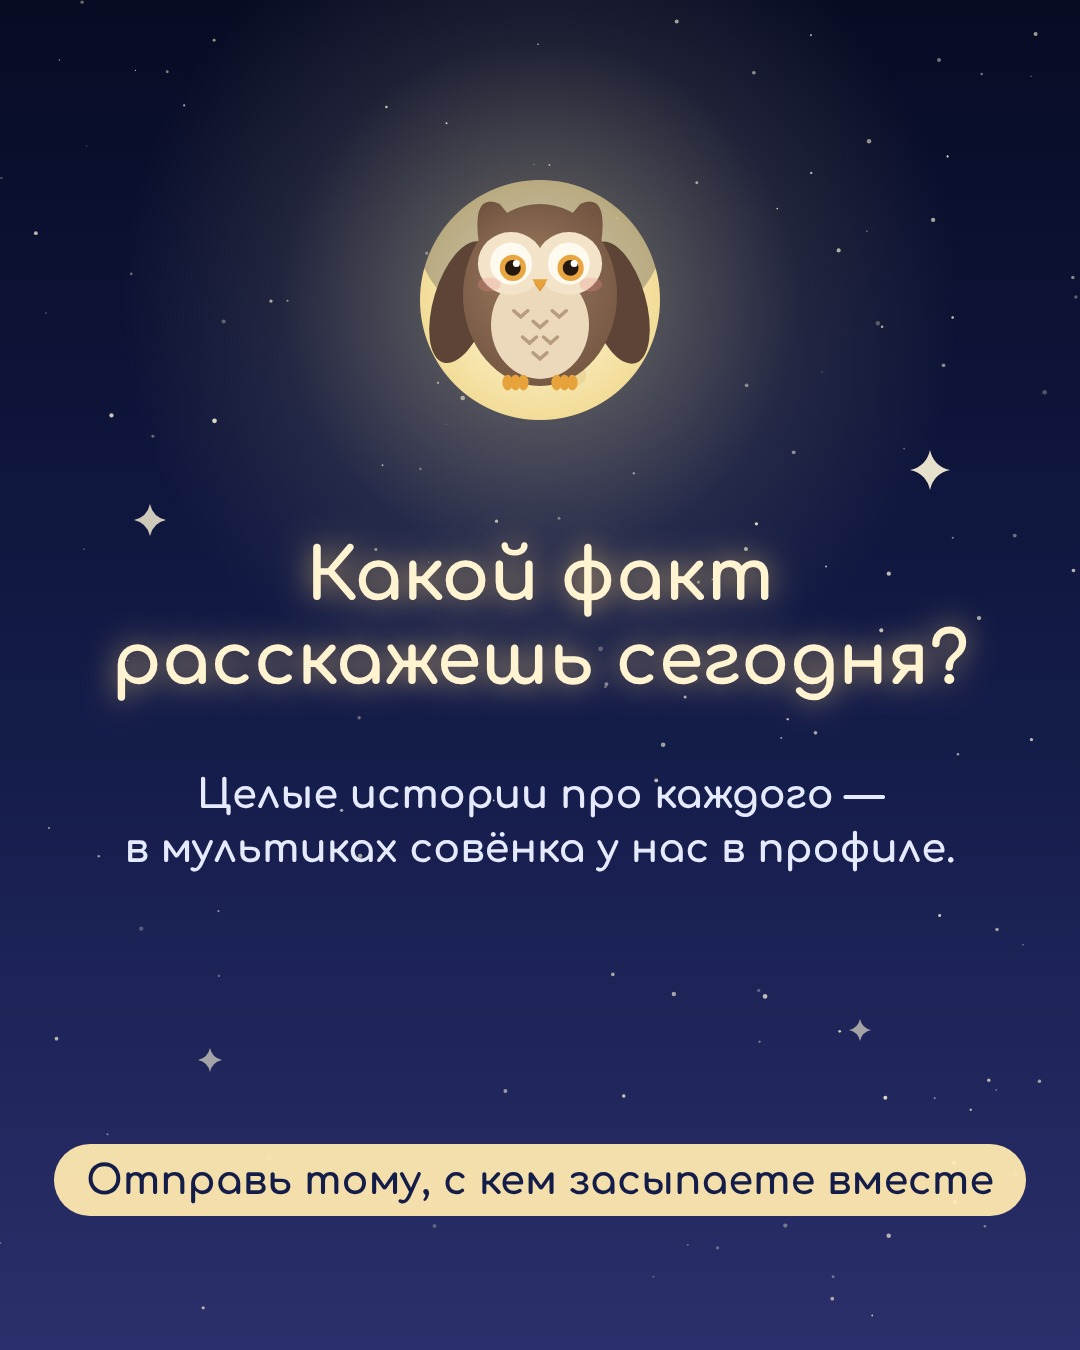
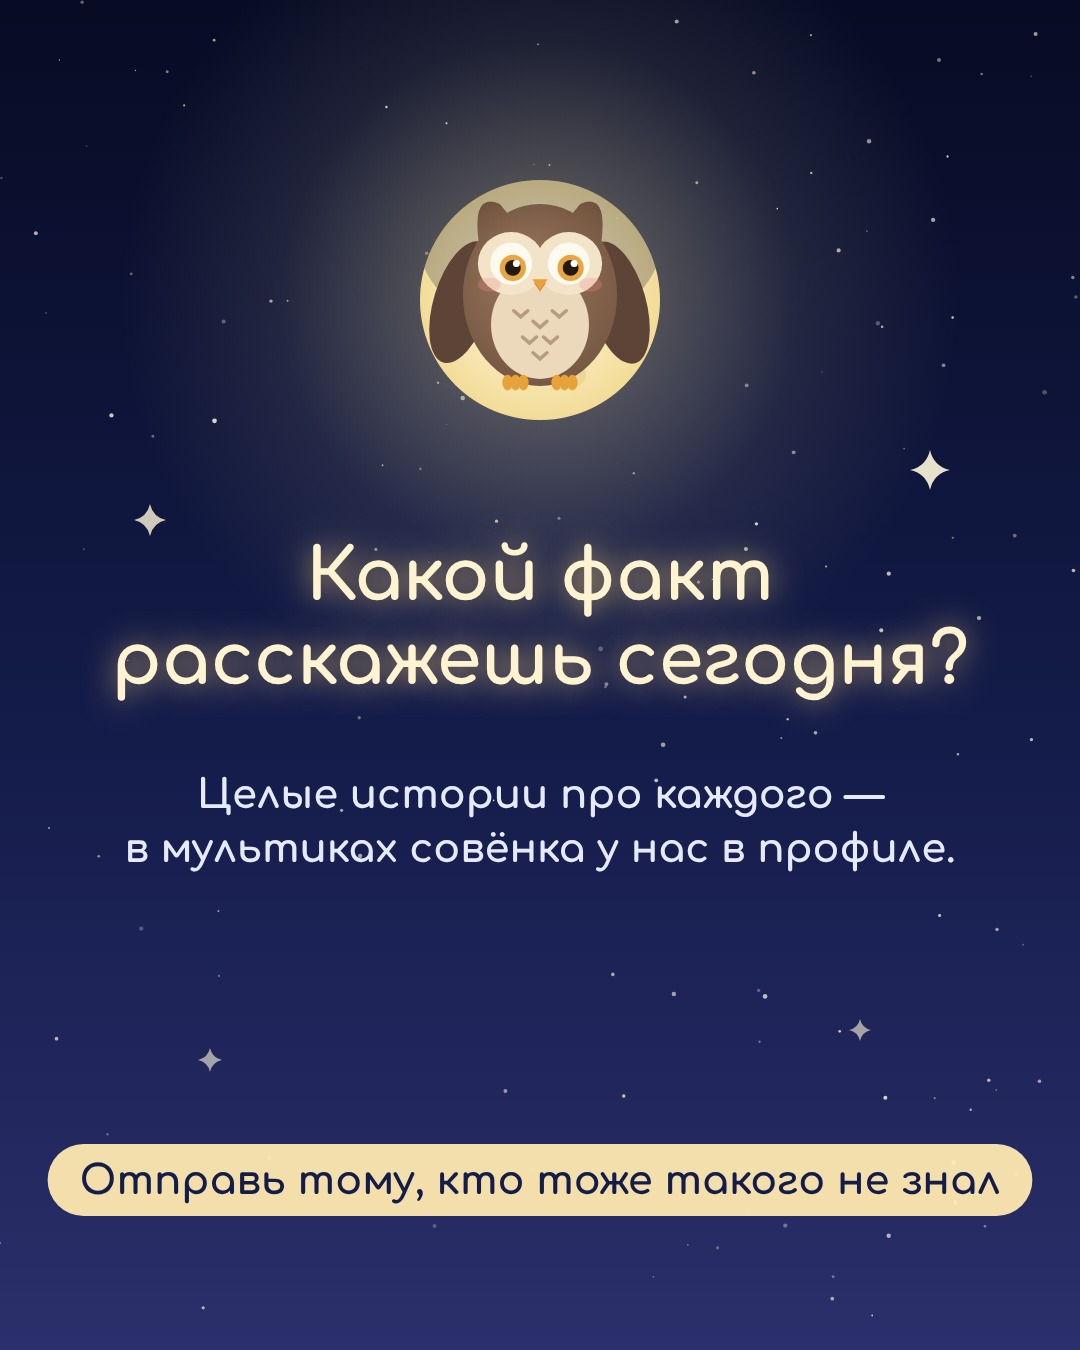
Карусель 2 и библия серии: новое позиционирование без темы сна
Claude-Session: https://claude.ai/code/session_01KEc3dcDrG2DU6oMU3CreHe

Changed region(s): [[0.0306, 0.84, 0.9778, 0.9022]]

diff --git a/a-znaesh-chto/bibliya-serii.md b/a-znaesh-chto/bibliya-serii.md
@@ -2,17 +2,21 @@
 
 Ведёт редактор серии (continuity). Обновлять после каждого выпуска. Выпуски 1–2 вышли, 3–5 ещё можно править.
 
+## 0. Позиционирование (решение Владислава 05.11.2026)
+
+Серия больше НЕ про сон и не «сказка на ночь». Цель — чтобы смотрели до конца и было интересно: удивительный факт, крючок в первые секунды, желание досмотреть и переслать. Аудитория — все, кому любопытно (дети и взрослые). Таблицы ниже про «финал к ребёнку», «закрой глаза», «спи» — история выпусков 1–6, для новых выпусков не образец. Хэштег #сказкананочь больше не ставим.
+
 ## 1. Постоянные элементы (не менять)
 
 | Элемент | Как |
 |---|---|
 | Строка 1 | «А знаешь что...» |
-| Строка 13 | «Спокойной ночи. Завтра расскажу ещё.» |
+| Строка 13 | «А завтра расскажу ещё.» или тизер следующего факта (до 05.11.2026 было «Спокойной ночи. Завтра расскажу ещё.») |
 | Размер | 13 строк, ~90 слов, голос бабушки («Бабушка Валя»), строка = абзац для ElevenLabs, без `<break>` |
 | Строка 2 | хук: сам факт одной фразой |
-| Строка 11 | вывод (обобщение), строка 12 — финальный ход к ребёнку |
-| Совёнок | на луне в начале и в конце, мини-совёнок в углу во время истории; рисунок копировать из 01-vydry (brend/README.md) |
-| Факты | только проверенные, с источниками в scenariy.md; неизвестное — через «может быть» |
+| Строка 11 | вывод или поворот («а самое странное…»), строка 12 — ход к зрителю: вопрос в комментарии, неожиданная деталь; без «спи» и «закрывай глаза» |
+| Совёнок | талисман серии; на луне в начале и в конце, мини-совёнок в углу во время истории; рисунок копировать из 01-vydry (brend/README.md) |
+| Факты | основа реальная, но допущения и красное словцо ради крючка разрешены (решение Владислава 05.11.2026, фактчекера в команде нет) |
 
 ## 2. Выпуски
 
@@ -76,7 +80,7 @@
 ## 6. Главный риск серии
 
 Финал сводится к одной формуле «зверь спит — значит, и ты спи». Каждый новый текст проверять по колонке «тип финала». Второй риск: в плане 6–10 нет ни одного животного, а обещание серии — факт о животном.
-- Instagram: не больше 5 хэштегов: #азнаешьчто #сказкананочь #мультикидлядетей #фактыоживотных + один тег животного.
+- Instagram: не больше 5 хэштегов: #азнаешьчто #фактыоживотных #интересныефакты #мультики + один тег животного.
 
 
 ## 7. Выпуск 6 (северный олень) и запас тем
@@ -108,7 +112,7 @@
 | Голос | бабушка Валя | она же, шёпотом у свечи; строка 13 медленнее, без улыбки, музыку после неё не возвращаем |
 | Строка 2 | хук-факт | хук-загадка без разгадки |
 | Строка 12 | ход к ребёнку, тёплый | ход к зрителю, оставляет дверь открытой (окно, телефон, тень, плёнка) |
-| Совёнок | на луне, мини-совёнок в углу | **прячется** за луну на жуткой части; выглядывает только в финале |
+| Совёнок | талисман серии; на луне, мини-совёнок в углу | **прячется** за луну на жуткой части; выглядывает только в финале |
 | Нельзя | — | кровь, описание убийств, насилия и способов смерти, скримеры, копии облика/кадров/музыки, мигание (s08) |
 | Остальное | 13 строк, «ё», строка = абзац, без `<break>`, проверенные факты | без изменений; допуск 80–100 слов |
 
